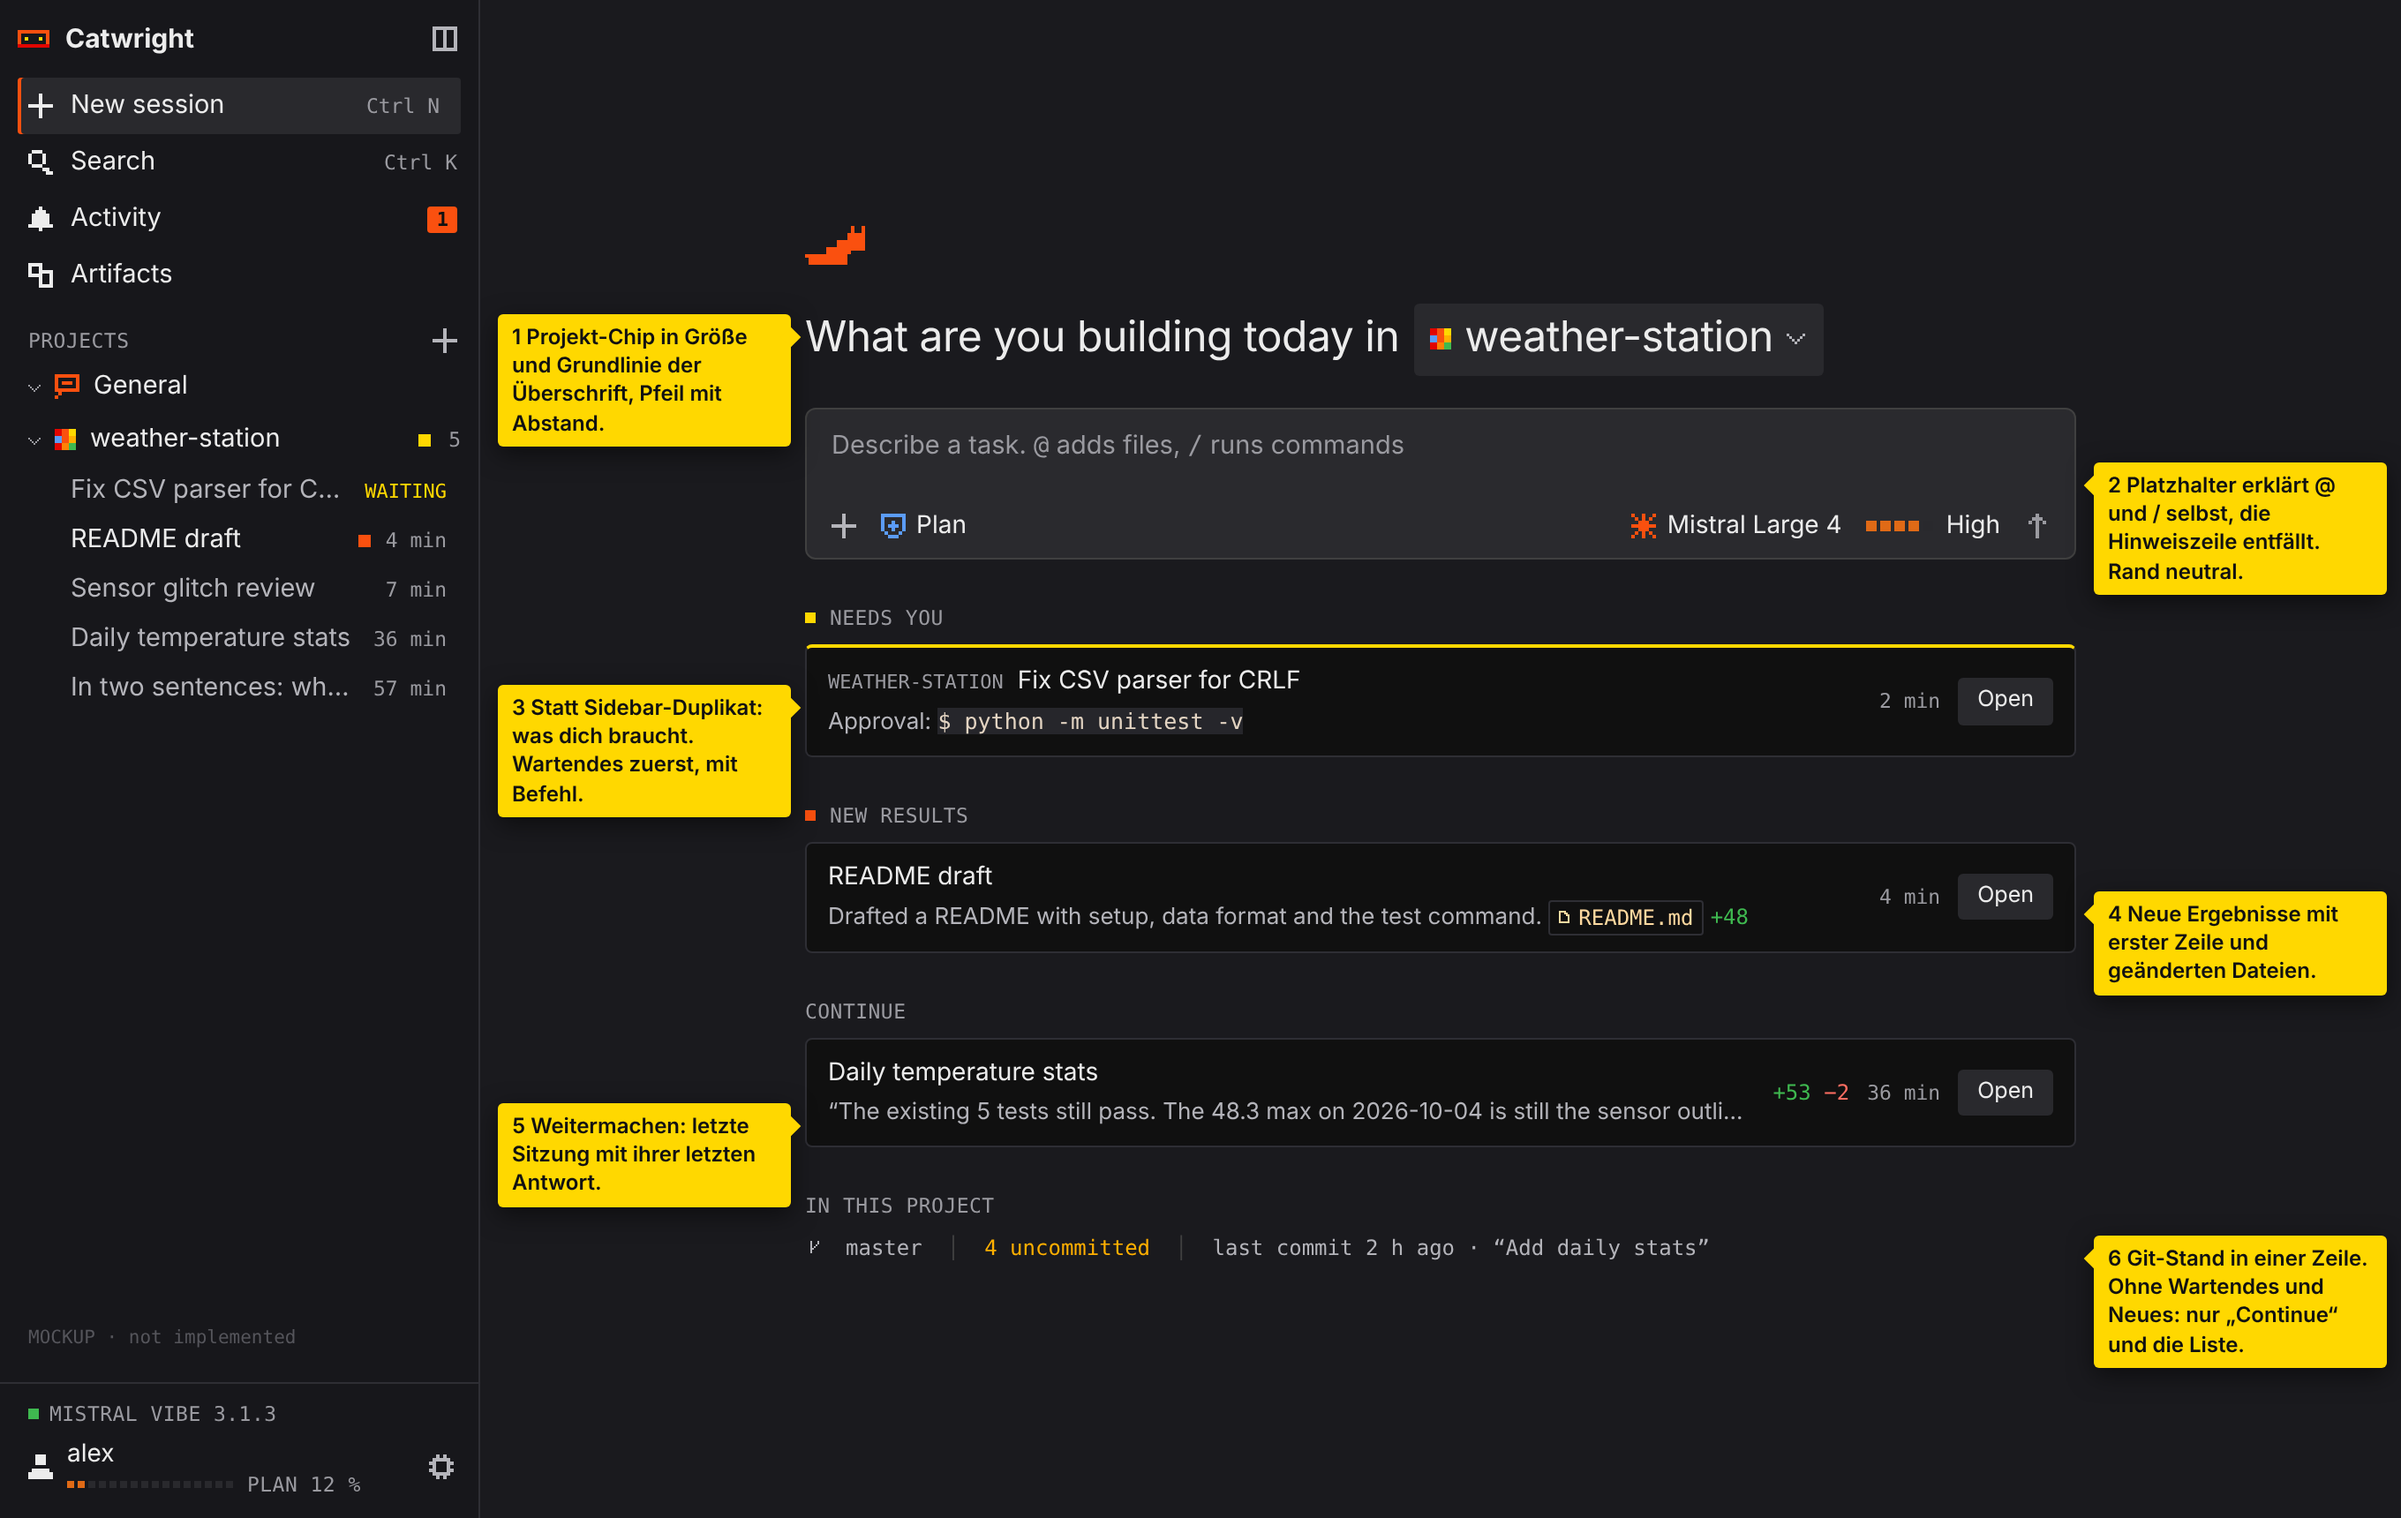
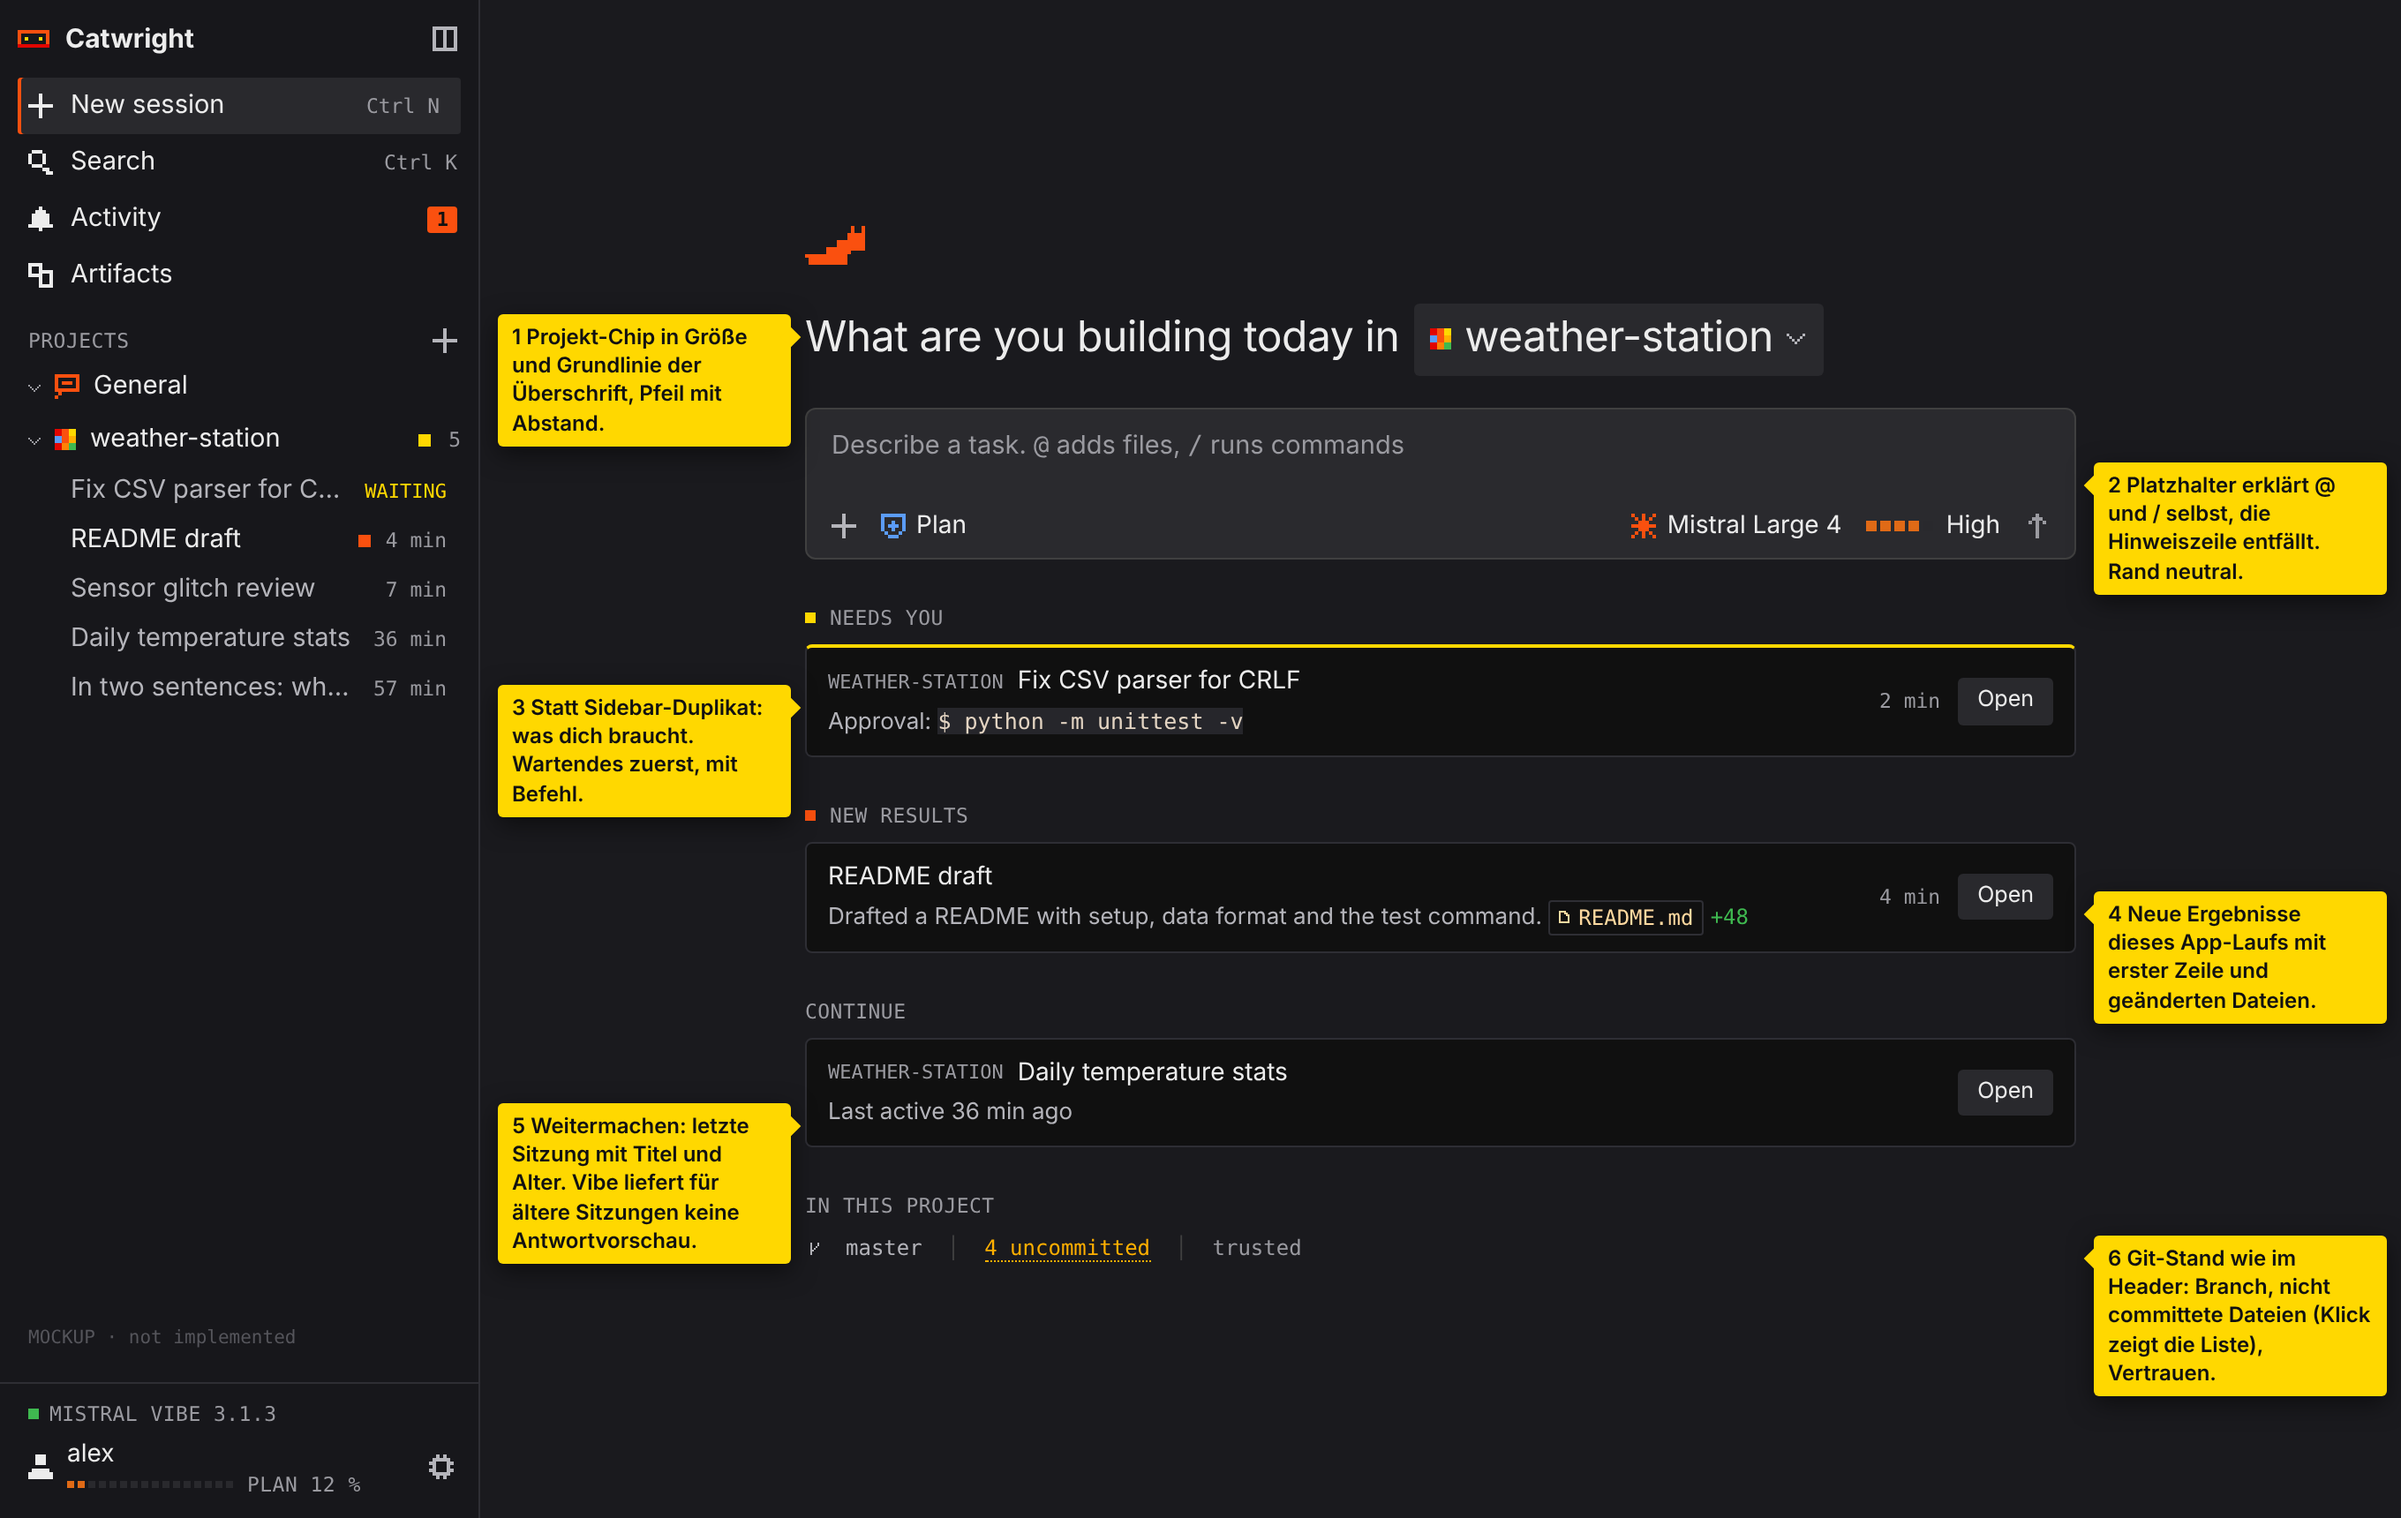
Mockups 5 and 6: show only data Catwright has
- Start screen: "Continue" shows title and age (Vibe's session list has
  no answer preview for older sessions); the project line is branch,
  uncommitted count and trust (no last commit, which would need another
  git call); notes say so.
- Panel: environment summary is "master · trusted" (Catwright knows no
  Python version), connectors use the existing "{n} connected".

Claude-Session: https://claude.ai/code/session_01PuTwbbvQp52dyYtcHPreif

diff --git a/tools/mockups/5-start.html b/tools/mockups/5-start.html
@@ -78,21 +78,21 @@
 
       <div class="sec"><span class="label">Continue</span></div>
       <div class="card">
-        <div class="tt">Daily temperature stats</div>
-        <div class="sub">“The existing 5 tests still pass. The 48.3 max on 2026-10-04 is still the sensor outlier…”</div>
-        <div class="r"><span class="stat"><span style="color:var(--green)">+53</span> <span style="color:var(--red-text)">−2</span></span><span class="age">36 min</span><span class="btn sm">Open</span></div>
+        <div class="tt"><span class="crumb">weather-station</span>Daily temperature stats</div>
+        <div class="sub">Last active 36 min ago</div>
+        <div class="r"><span class="btn sm">Open</span></div>
       </div>
 
       <div class="sec"><span class="label">In this project</span></div>
-      <div class="git"><span data-i="branch" data-c="#b4b4ba" data-s="1"></span>master<span class="sep">│</span><span style="color:var(--amber)">4 uncommitted</span><span class="sep">│</span>last commit 2 h ago · “Add daily stats”</div>
+      <div class="git"><span data-i="branch" data-c="#b4b4ba" data-s="1"></span>master<span class="sep">│</span><span style="color:var(--amber);border-bottom:1px dotted var(--amber)">4 uncommitted</span><span class="sep">│</span><span class="dim">trusted</span></div>
     </div>
 
     <div class="note r" style="left:10px;top:178px;max-width:166px">1 Projekt-Chip in Größe und Grundlinie der Überschrift, Pfeil mit Abstand.</div>
     <div class="note l" style="left:914px;top:262px;max-width:166px">2 Platzhalter erklärt @ und / selbst, die Hinweiszeile entfällt. Rand neutral.</div>
     <div class="note r" style="left:10px;top:388px;max-width:166px">3 Statt Sidebar-Duplikat: was dich braucht. Wartendes zuerst, mit Befehl.</div>
-    <div class="note l" style="left:914px;top:505px;max-width:166px">4 Neue Ergebnisse mit erster Zeile und geänderten Dateien.</div>
-    <div class="note r" style="left:10px;top:625px;max-width:166px">5 Weitermachen: letzte Sitzung mit ihrer letzten Antwort.</div>
-    <div class="note l" style="left:914px;top:700px;max-width:166px">6 Git-Stand in einer Zeile. Ohne Wartendes und Neues: nur „Continue“ und die Liste.</div>
+    <div class="note l" style="left:914px;top:505px;max-width:166px">4 Neue Ergebnisse dieses App-Laufs mit erster Zeile und geänderten Dateien.</div>
+    <div class="note r" style="left:10px;top:625px;max-width:166px">5 Weitermachen: letzte Sitzung mit Titel und Alter. Vibe liefert für ältere Sitzungen keine Antwortvorschau.</div>
+    <div class="note l" style="left:914px;top:700px;max-width:166px">6 Git-Stand wie im Header: Branch, nicht committete Dateien (Klick zeigt die Liste), Vertrauen.</div>
   </div>
 </div>
 </div></body></html>

diff --git a/tools/mockups/6-panel.html b/tools/mockups/6-panel.html
@@ -117,8 +117,8 @@ table.md tr:nth-child(even) td { background: #141416; }
     </div>
   </div>
   <div class="crow"><span data-i="right" data-c="#9a9aa0" data-s="1"></span><span class="label">Routines</span><span class="sum none">none</span></div>
-  <div class="crow"><span data-i="right" data-c="#9a9aa0" data-s="1"></span><span class="label">Connectors</span><span class="sum">2 active</span></div>
-  <div class="crow"><span data-i="right" data-c="#9a9aa0" data-s="1"></span><span class="label">Environment</span><span class="sum">Python 3.12 · trusted</span></div>
+  <div class="crow"><span data-i="right" data-c="#9a9aa0" data-s="1"></span><span class="label">Connectors</span><span class="sum">2 connected</span></div>
+  <div class="crow"><span data-i="right" data-c="#9a9aa0" data-s="1"></span><span class="label">Environment</span><span class="sum">master · trusted</span></div>
 </div>
 
 <div class="note r" style="left:836px;top:64px;max-width:196px">1 Flache Abschnitte mit Haarlinien statt Kästen in Kästen: das Panel ist eine Fläche.</div>
